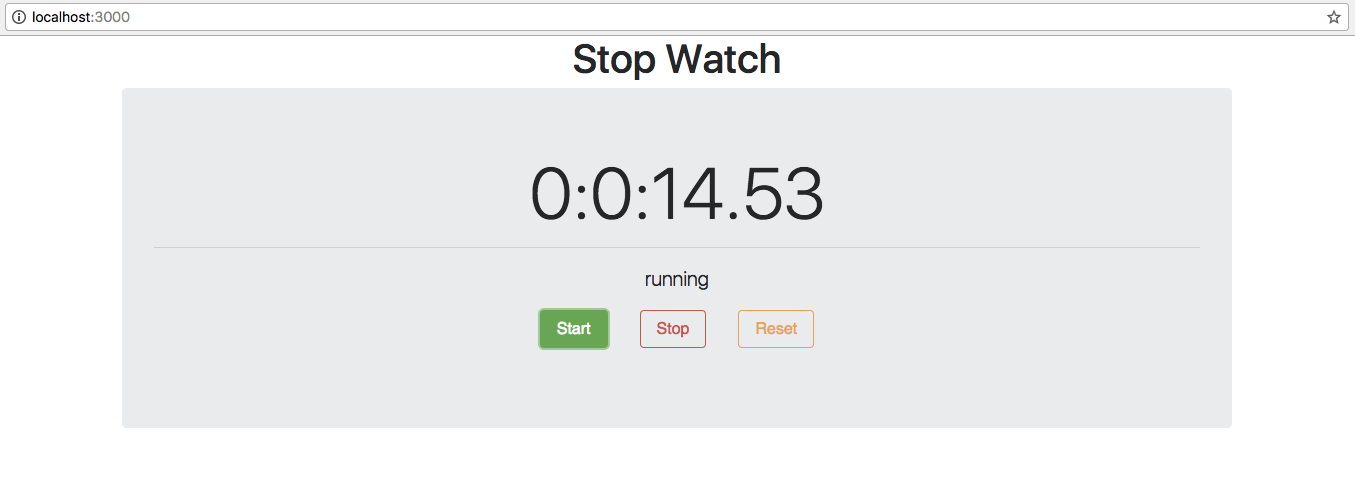
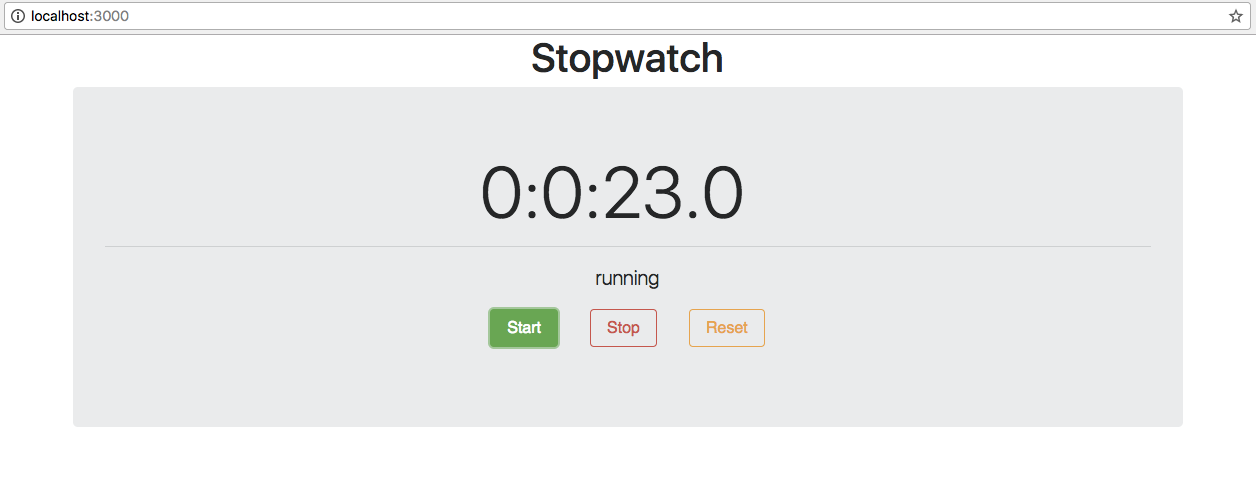
Fixed all screenshots 'stopwatch'

diff --git a/client/src/components/instructions/prototypes/react-component-state/index.js b/client/src/components/instructions/prototypes/react-component-state/index.js
@@ -32,7 +32,7 @@ export default function(){
                 <ol>
                     <li><b>Related Slides</b>
                         <ul>
-                            <li><a href="https://docs.google.com/presentation/d/1F6rdoAxBdRnVR_1u4vBDvQDcWml25vSn-Slr6lv0Ajo/pub?start=false&loop=false&delayms=3000">React Component State</a></li>
+                            <li><a href="https://docs.google.com/presentation/d/1F6rdoAxBdRnVR_1u4vBDvQDcWml25vSn-Slr6lv0Ajo/pub?start=false&loop=false&delayms=3000" target="_blank">React Component State</a></li>
                         </ul>
                     </li>
                     <li><b>Feature Set 1</b>
@@ -67,7 +67,7 @@ export default function(){
                     </li>
                     <li><b>Feature Set 7</b>
                         <ul>
-                            <li>This feature set is also optional. Here you will fix an issue with the start button to make it behave in a more apropriate and expected version</li>
+                            <li>This feature set is also optional. Here you will fix an issue with the start button to make it behave in a more appropriate and expected manor</li>
                         </ul>
                     </li>
                     <li><b>Extras</b>
@@ -76,11 +76,12 @@ export default function(){
                         </ul>
                     </li>
                     <li><b>Demo:</b>
+                        <h1 className="text-center">Stopwatch</h1>
                         <Stopwatch/>
                     </li>
                 </ol>
             </Card>
-            <Card title="1" subtitle="Setting up the &lt;App&gt; component... Yes again">
+            <Card title="1" subtitle="Set up the &lt;App/&gt; component... Yes again">
                 <p>In the <code>src/components/app.js</code> file do the following:</p>
                 <ol>
                     <li>Import React
@@ -109,7 +110,7 @@ export default function(){
                     <img src={appRender1} className="img-pop"/>
                 </div>
             </Card>
-            <Card title="2" subtitle="The First class component">
+            <Card title="2" subtitle="Build your first class component: &lt;Stopwatch/&gt;">
                 <ol>
                     <li>In the <code>src/components</code> folder create a new file called <code>stopwatch.js</code></li>
                 </ol>
@@ -119,9 +120,9 @@ export default function(){
                     <li>Import React and Component (<i>remember put Component inside</i> &#123; &#125; )
                         <Code html={examples.importReactComponent} noHide/>
                     </li>
-                    <li>Create a <i>class</i> named <code>Stopwatch</code></li>
+                    <li>Create a <i>class</i> named <code>Stopwatch</code> that <code>extends</code> <code>Component</code></li>
                     <li>Add a render method to the <code>Stopwatch</code> class</li>
-                    <li>The render method should return a <code>&lt;div&gt;</code> with a <code>&lt;h3&gt;</code> inside that contains the text "<i>This will be the stopwatch</i>"
+                    <li>The render method should return a <code>&lt;div&gt;</code> with a <code>&lt;h3&gt;</code> inside that contains the text: "<i>This will be the stopwatch</i>"
                         <ul>
                             <li><b>NOTE:</b> We are just adding some temporary content so we can test the component</li>
                         </ul>
@@ -142,9 +143,9 @@ export default function(){
                 <p>After completing the above you should see the following in the browser:</p>
                 <img src={appRender2} className="img-pop"/>
             </Card>
-            <Card title="3" subtitle="Adding state and counting the milliseconds">
+            <Card title="3" subtitle="Add state to count the milliseconds">
                 <p>To create a stopwatch (<i>a timer that counts up from zero</i>) the <code>&lt;Stopwatch&gt;</code> component will need to know a few things. Firstly the component will need to know if it is <code>running</code> or <code>stopped</code>. Next it needs to know how much time has passed since the timer was started so it'll need to know when it was started and how much time has elapsed. For the component to know all these things we will store the information into <code>state</code>.</p>
-                <p>We will start with adding a <code>constructor</code> method to the <code>&lt;Stopwatch&gt;</code> component. We will add three properties to state <code>status</code>, <code>start</code>, and <code>elapsed</code></p>
+                <p>We will start with adding a <code>constructor</code> method to the <code>&lt;Stopwatch&gt;</code> component. We will add three properties to state: <code>status</code>, <code>start</code>, and <code>elapsed</code></p>
                 <p>In the <code>src/components/stopwatch.js</code> file do the following:</p>
                 <ol>
                     <li>In the <code>Stopwatch</code> class create a <code>constructor</code> method
@@ -162,7 +163,7 @@ export default function(){
                         </ol>
                         <Code html={examples.example6}/>
                     </li>
-                    <li>In the <code>render</code> method use destructuring to create variables for <code>elapsed</code> and <code>status</code> from <code>state</code>
+                    <li>In the <code>render</code> method use destructuring to create constants for <code>elapsed</code> and <code>status</code> from <code>state</code>
                         <Code html={examples.example7}/>
                     </li>
                     <li>Still in the <code>render</code> method, in the <code>return</code>:
@@ -288,7 +289,7 @@ export default function(){
                 </ol>
                 <Code html={examples.example22} text={{show: 'View complete stopwatch.js example', hide: 'Hide Example'}} confirm/>
             </Card>
-            <Card title="4" subtitle="Formatting the time... there will be math!">
+            <Card title="4" subtitle="Format the time... there will be math!">
                 <p>As it stands now our timer output is in milliseconds and is not very human readable. We want to take the milliseconds and convert it to something that is actually useful, something like <code>0:0:0.0</code> which translates to <code>hour:min:sec.ms</code></p>
                 <p>We will create a new Component that will handle this conversion for us</p>
                 <ol>
@@ -387,7 +388,7 @@ export default function(){
                     </li>
                 </ol>
             </Card>
-            <Card title="5" subtitle="Making this look good">
+            <Card title="5" subtitle="Use Bootstrap to make this look good">
                 <p>Now that we have a functional timer we can style it. We will be using Bootstrap to style the timer.</p>
                 <p>In the <code>src/components/stopwatch.js</code> file do the following:</p>
                 <ol>
@@ -418,7 +419,7 @@ export default function(){
                     <li>In the <code>return</code> of the <code>render</code> method add the <code>text-center</code> class to the <code>&lt;div&gt;</code></li>
                     <li>Test your app
                         <ul>
-                            <li>Because the time string slightly changes size as the timer runs it causes it to bounce and give a ghosting effect when using <code>text-center</code>. This is most likely not a desired effect so this is not the best solution</li>
+                            <li>Because the time string slightly changes size as the timer runs it causes it to bounce and give a ghosting effect when using <code>text-center</code>. This most likely is not a desired effect so this is not the best solution</li>
                         </ul>
                     </li>
                     <li>In the <code>constructor</code> method we will create a style object to help us center the timer
@@ -494,7 +495,7 @@ export default function(){
                 <Code html={examples.example49} text={{show: 'View Full format_time.js Example', hide: 'Hide Example'}} confirm/>
                 <Code html={examples.example50} text={{show: 'View Full format_time.js Advanced Example', hide: 'Hide Example'}} title="Just FYI" message={<div>This example utilizes some more advanced concepts <br/> but accomplishes the exact same result as the above example</div>} confirm/>
             </Card>
-            <Card title="7" subtitle="Fix the start button" optional>
+            <Card title="7" subtitle="Fix the start button functionality" optional>
                 <p>Right now every time you click the start button the timer resets. It would be nice if we could stop the timer and then resume it again by clicking start</p>
                 <p>In the <code>src/components/stopwatch.js</code> file do the following:</p>
                 <p>Everything in this feature set will be inside the <code>start</code> method within the <code>Stopwatch</code> class</p>
@@ -528,6 +529,7 @@ export default function(){
                     <li>Add additional styles to improve the look of the timer</li>
                     <li>Allow the user to enter a specific amount of time and have the timer count down to zero</li>
                     <li>Display the time text in a different format</li>
+                    <li>Utilize the <code>leadingZero</code> and <code>trailingZero</code> methods in the <code>componentWillReceiveProps</code> method instead of the <code>render</code> method</li>
                 </ol>
             </Card>
         </div>
